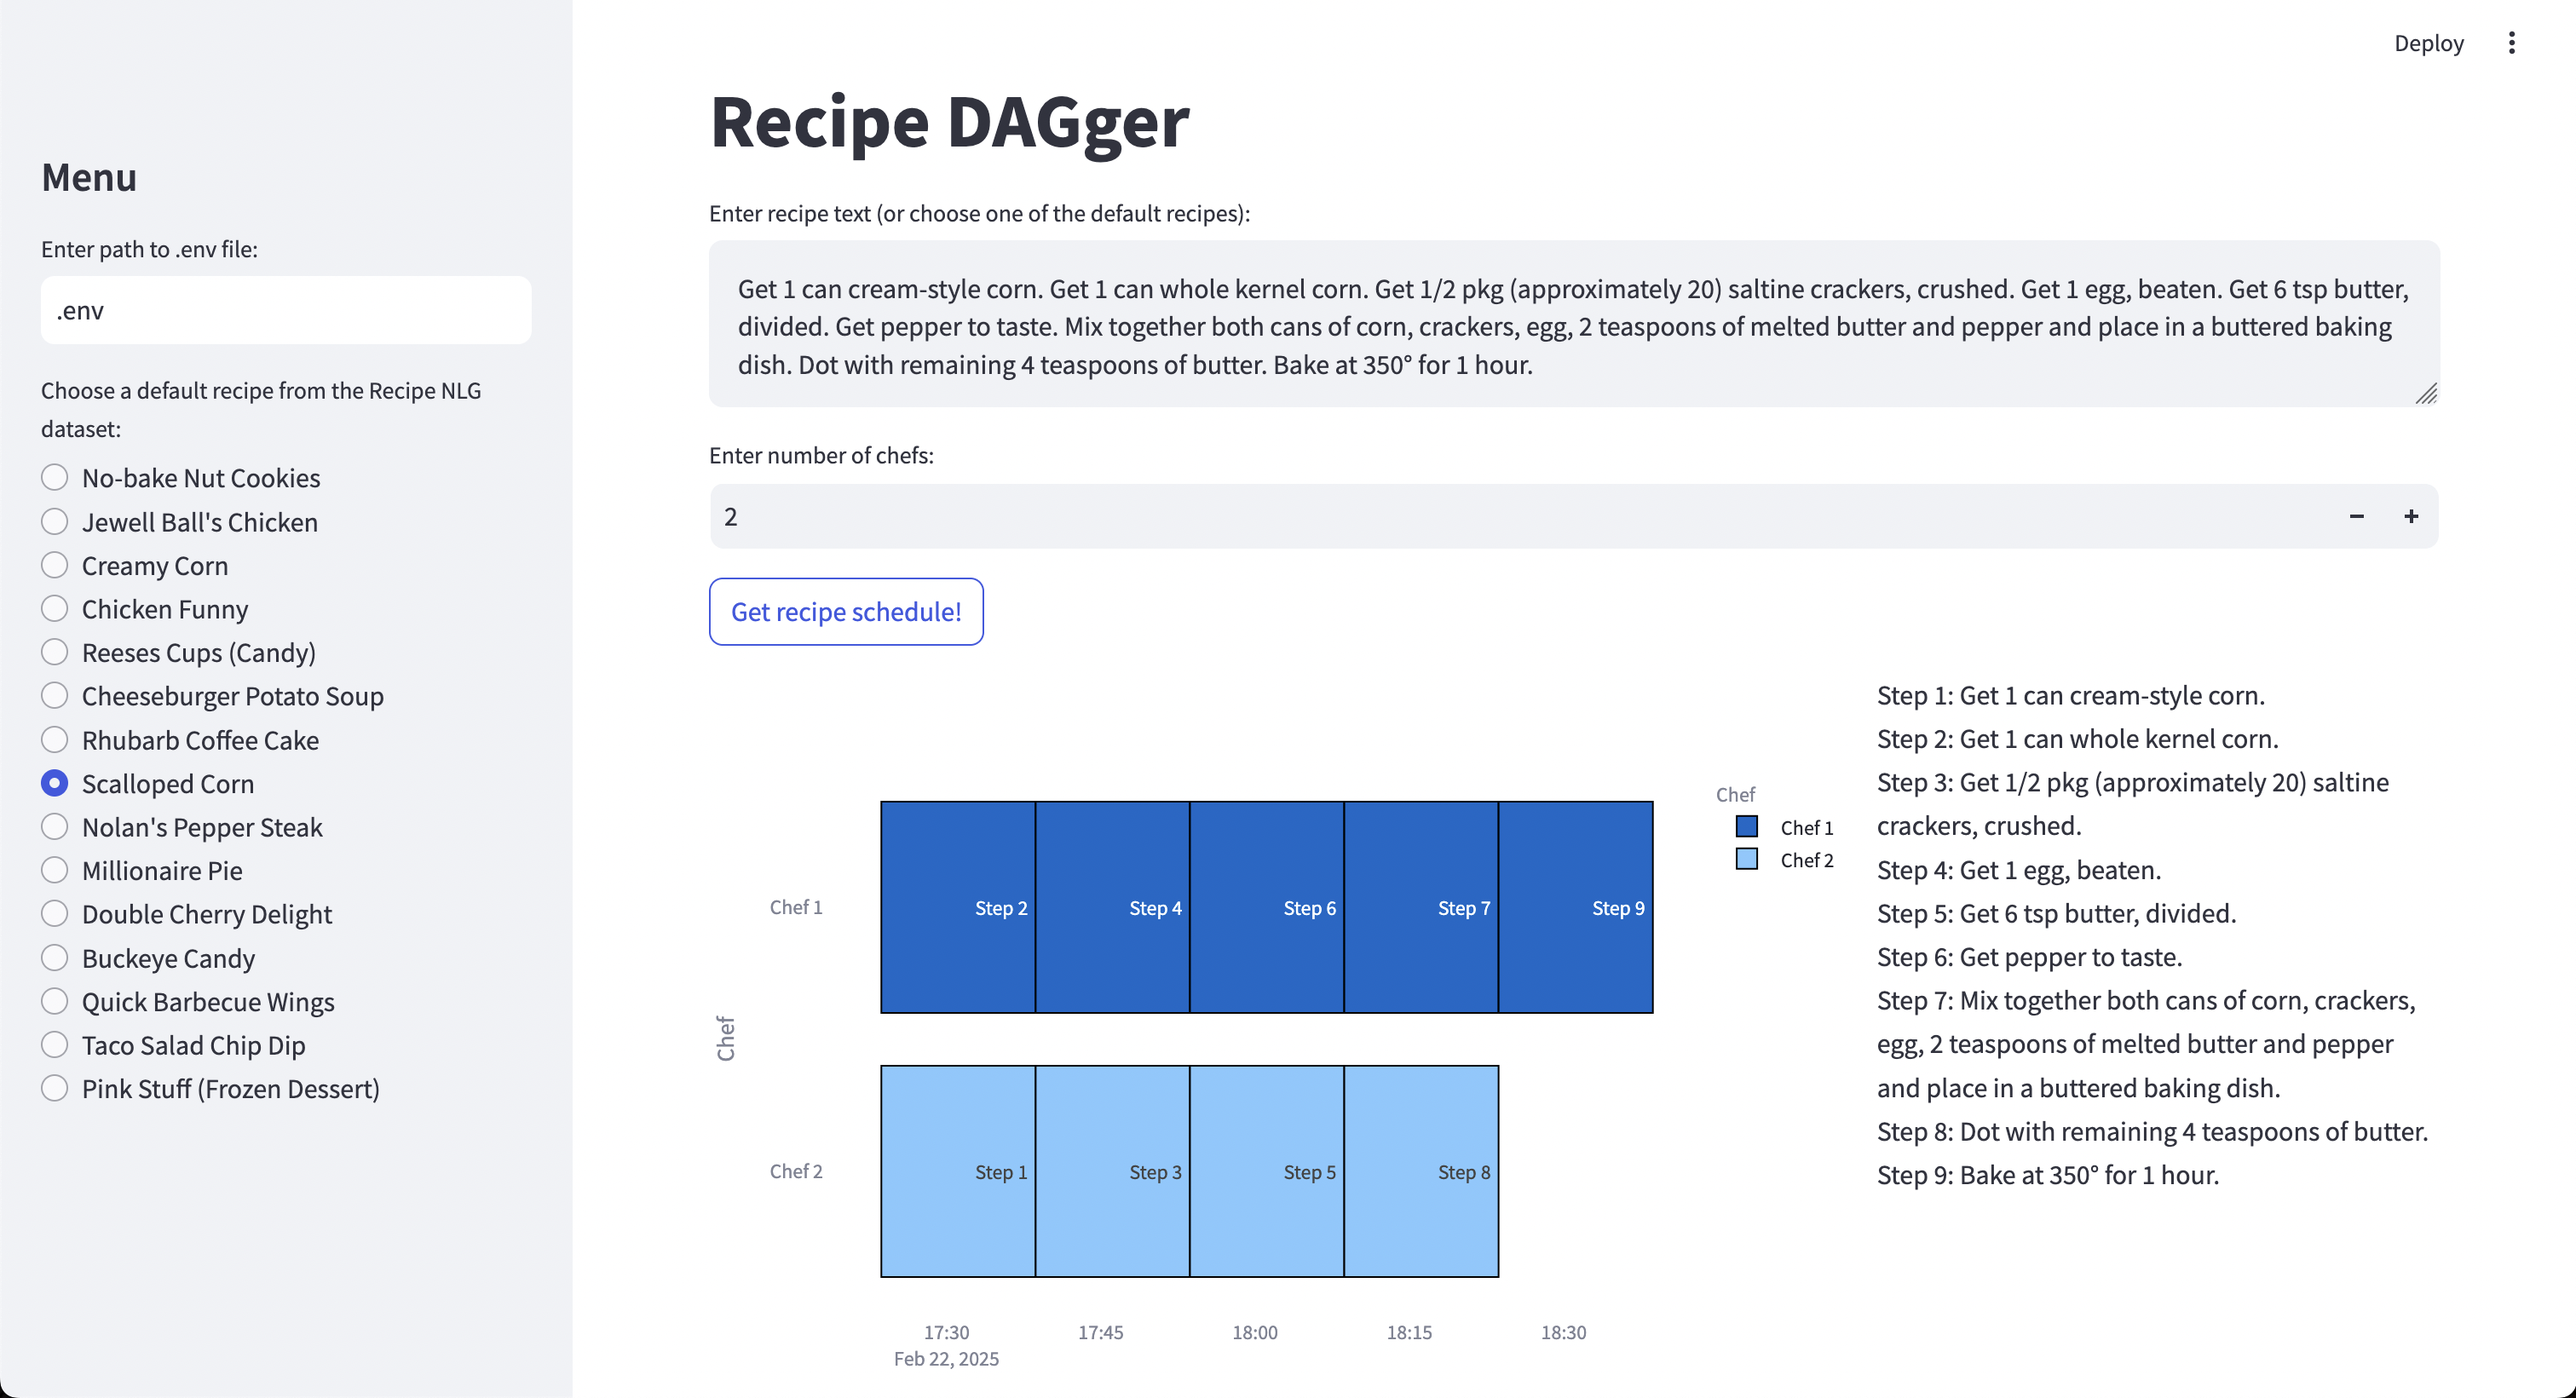
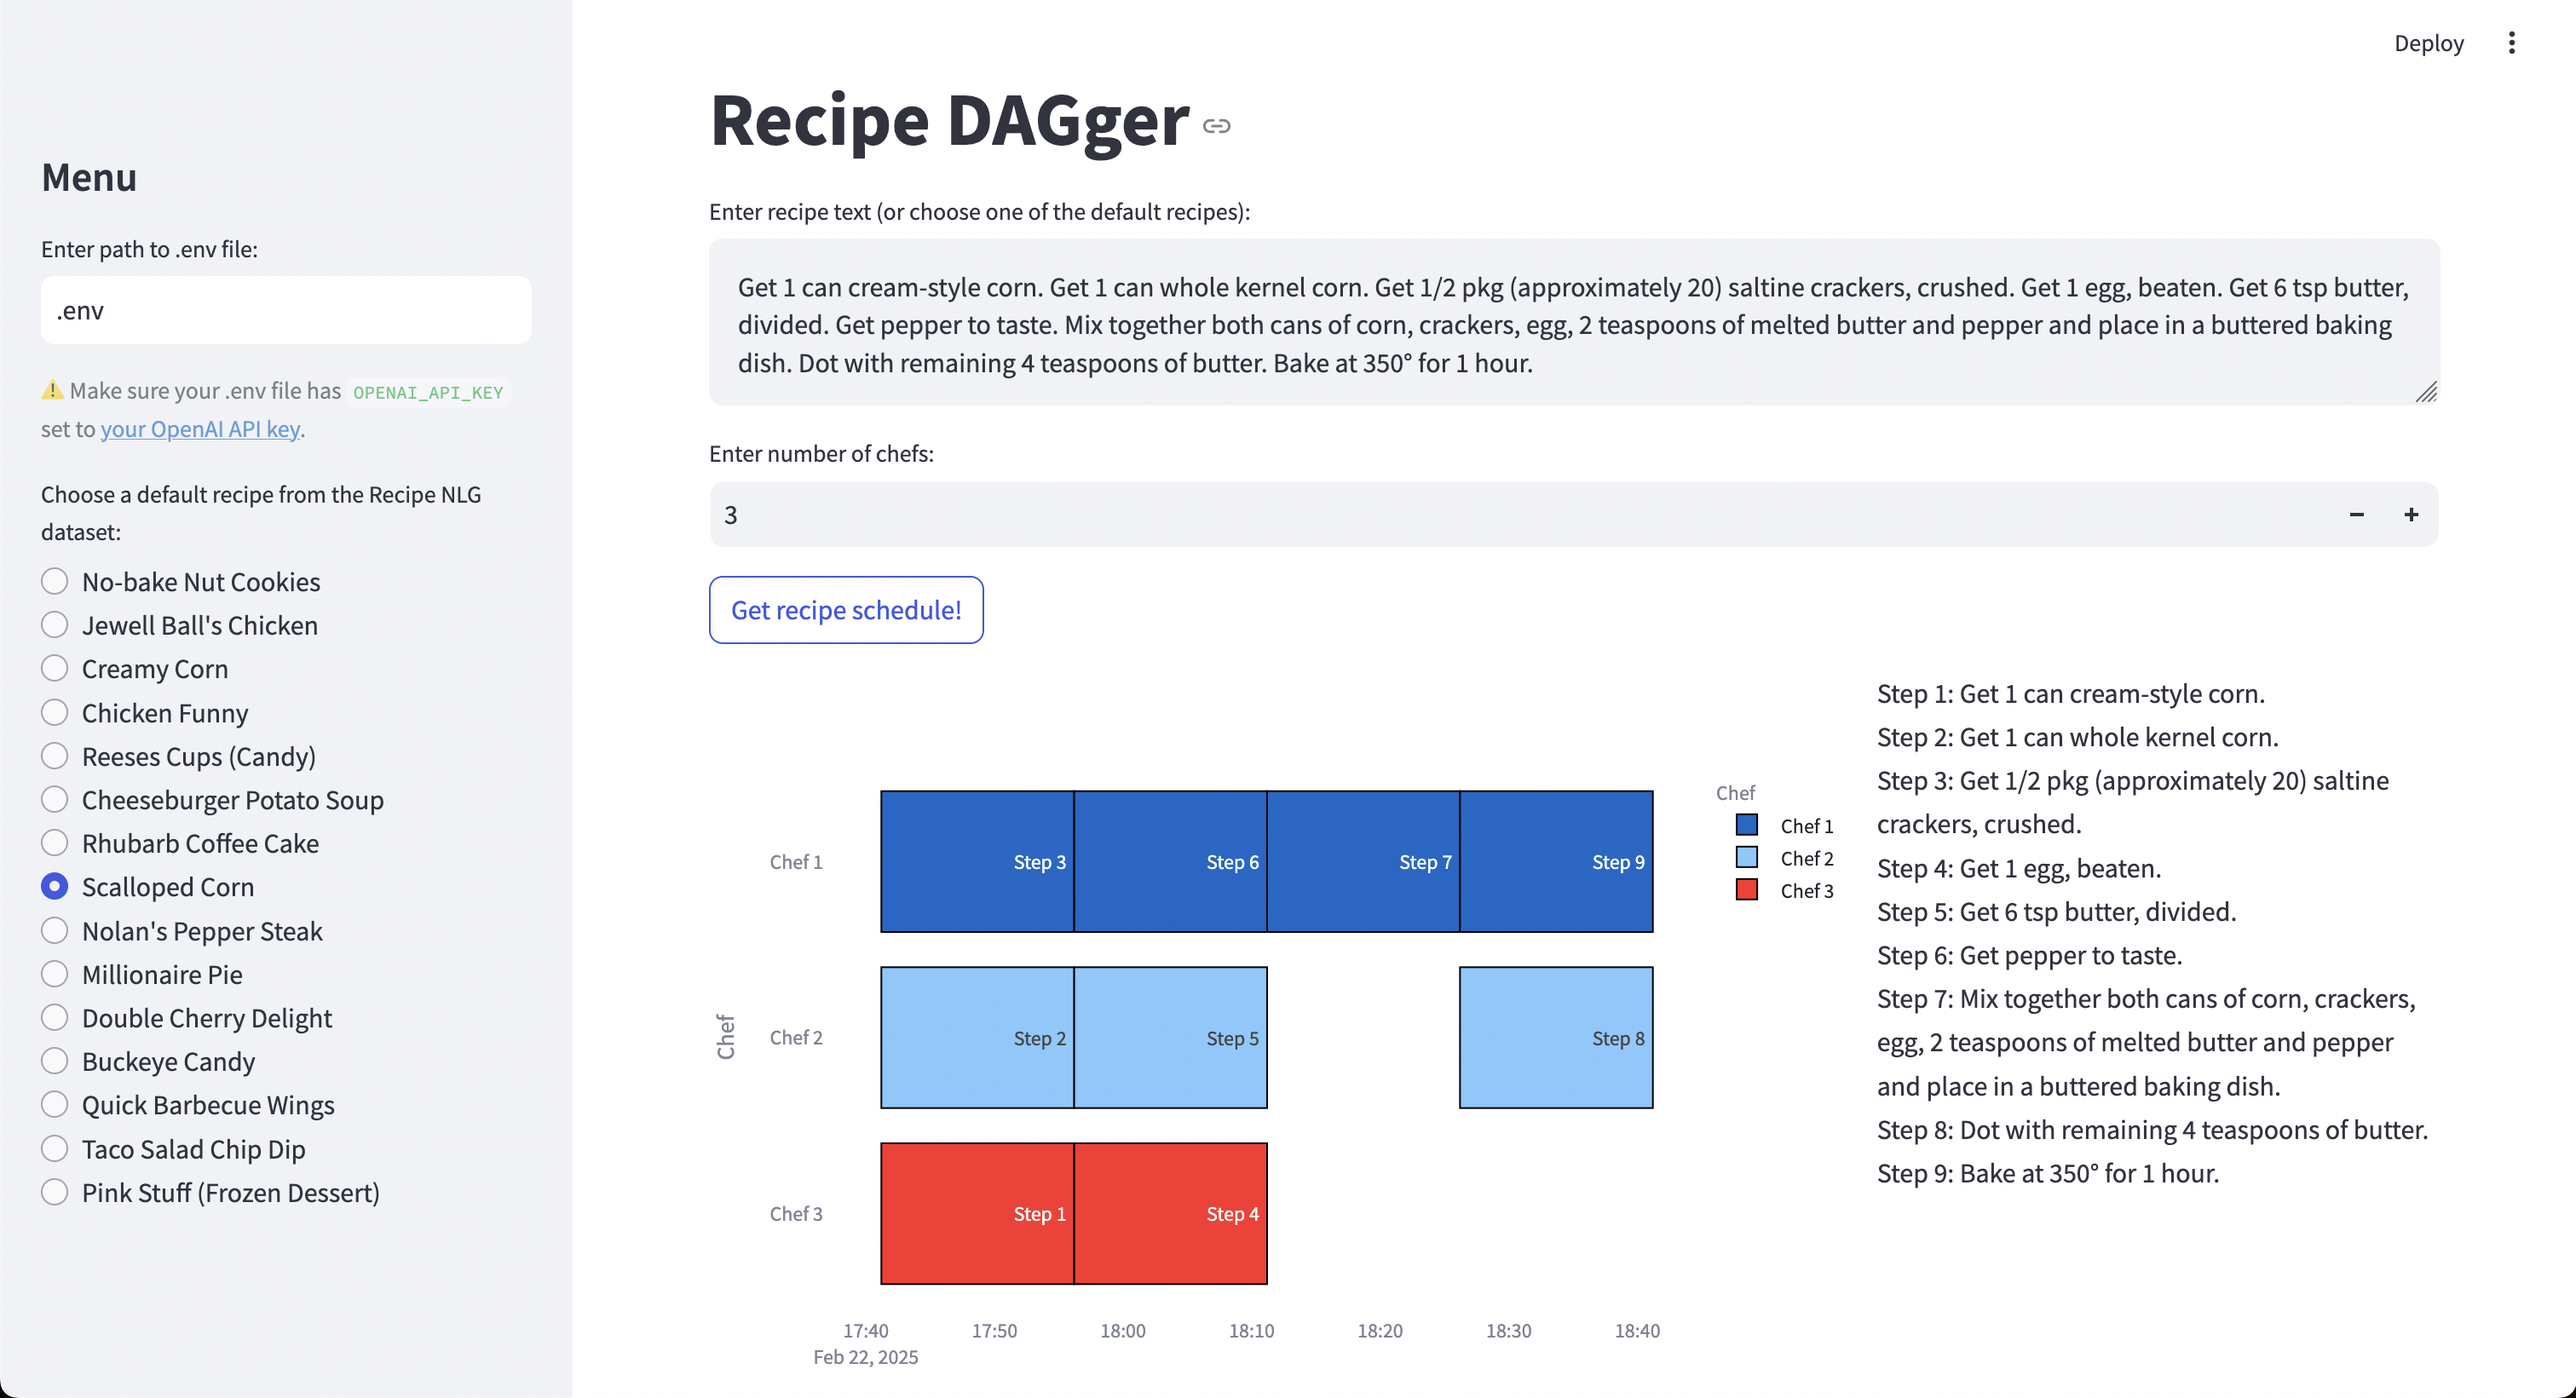
Add more explanatory text and update screenshot

diff --git a/recipe_DAGger/main.py b/recipe_DAGger/main.py
@@ -1,10 +1,12 @@
 import re
 import string
-from dotenv import load_dotenv
+
+import plotly.express as px
 import streamlit as st
+from dotenv import load_dotenv
+
 from extract_recipe_graph import get_recipe_graph, get_recipe_text_from_nlg_hf
 from recipe_scheduler import create_recipe_schedule
-import plotly.express as px
 
 # PAGE CONFIG
 st.set_page_config(page_title="Recipe DAGger", layout="wide")
@@ -13,6 +15,9 @@ st.set_page_config(page_title="Recipe DAGger", layout="wide")
 st.sidebar.title("Menu")
 
 env_path = st.sidebar.text_input("Enter path to .env file:", value=".env")
+st.sidebar.caption(
+    ":warning: Make sure your .env file has `OPENAI_API_KEY` set to [your OpenAI API key](https://platform.openai.com/docs/quickstart)."
+)
 load_dotenv(env_path)
 
 

diff --git a/recipe_DAGger/recipe_scheduler.py b/recipe_DAGger/recipe_scheduler.py
@@ -1,6 +1,8 @@
+from datetime import datetime
+
 import pandas as pd
 from pydantic import BaseModel
-from datetime import datetime
+
 from recipe_graph import RecipeAdjListGraph
 
 
